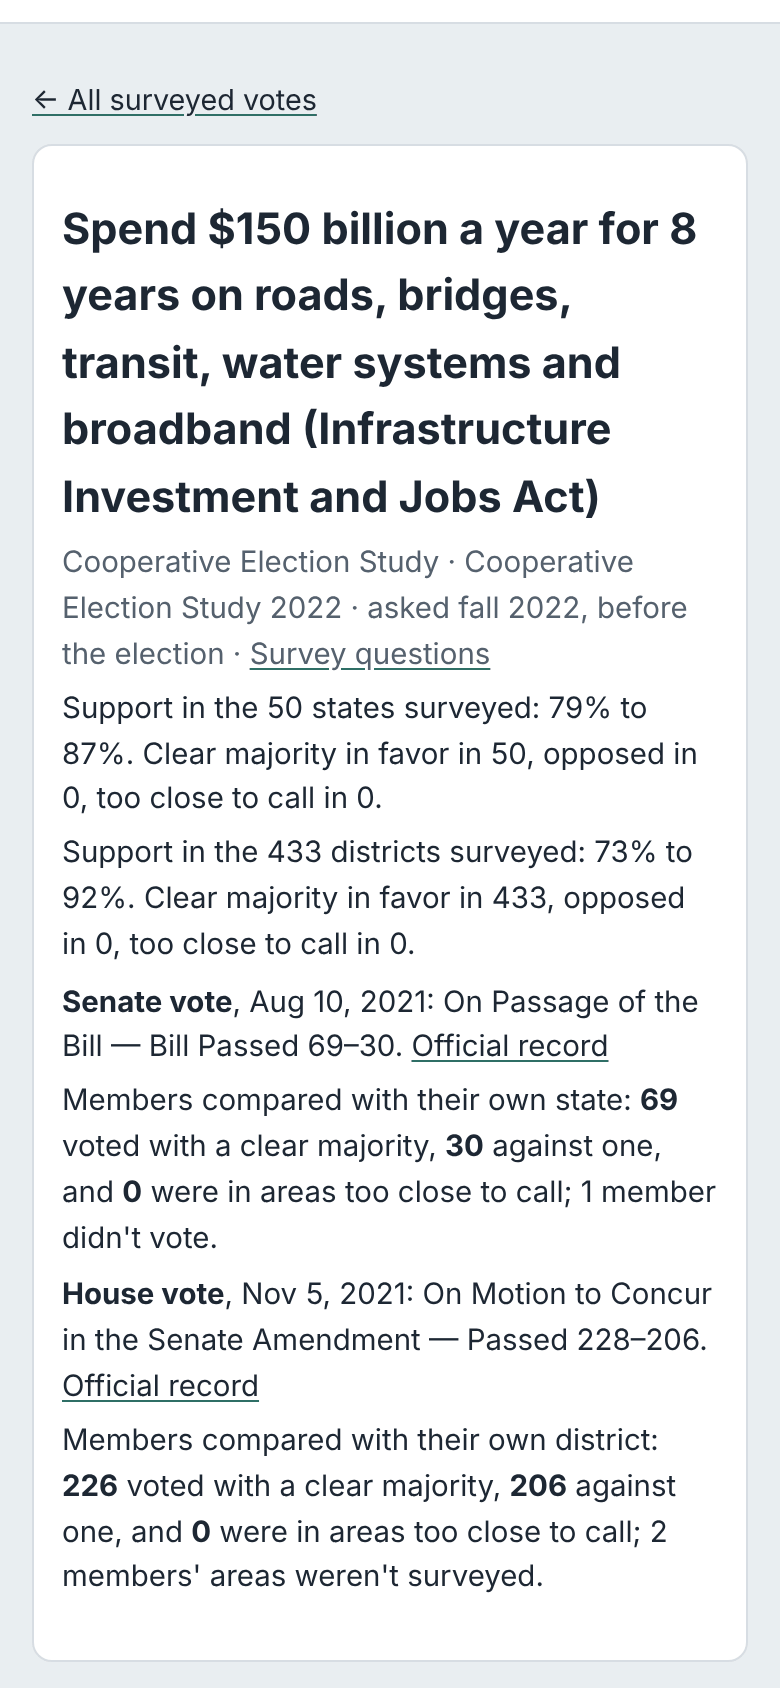
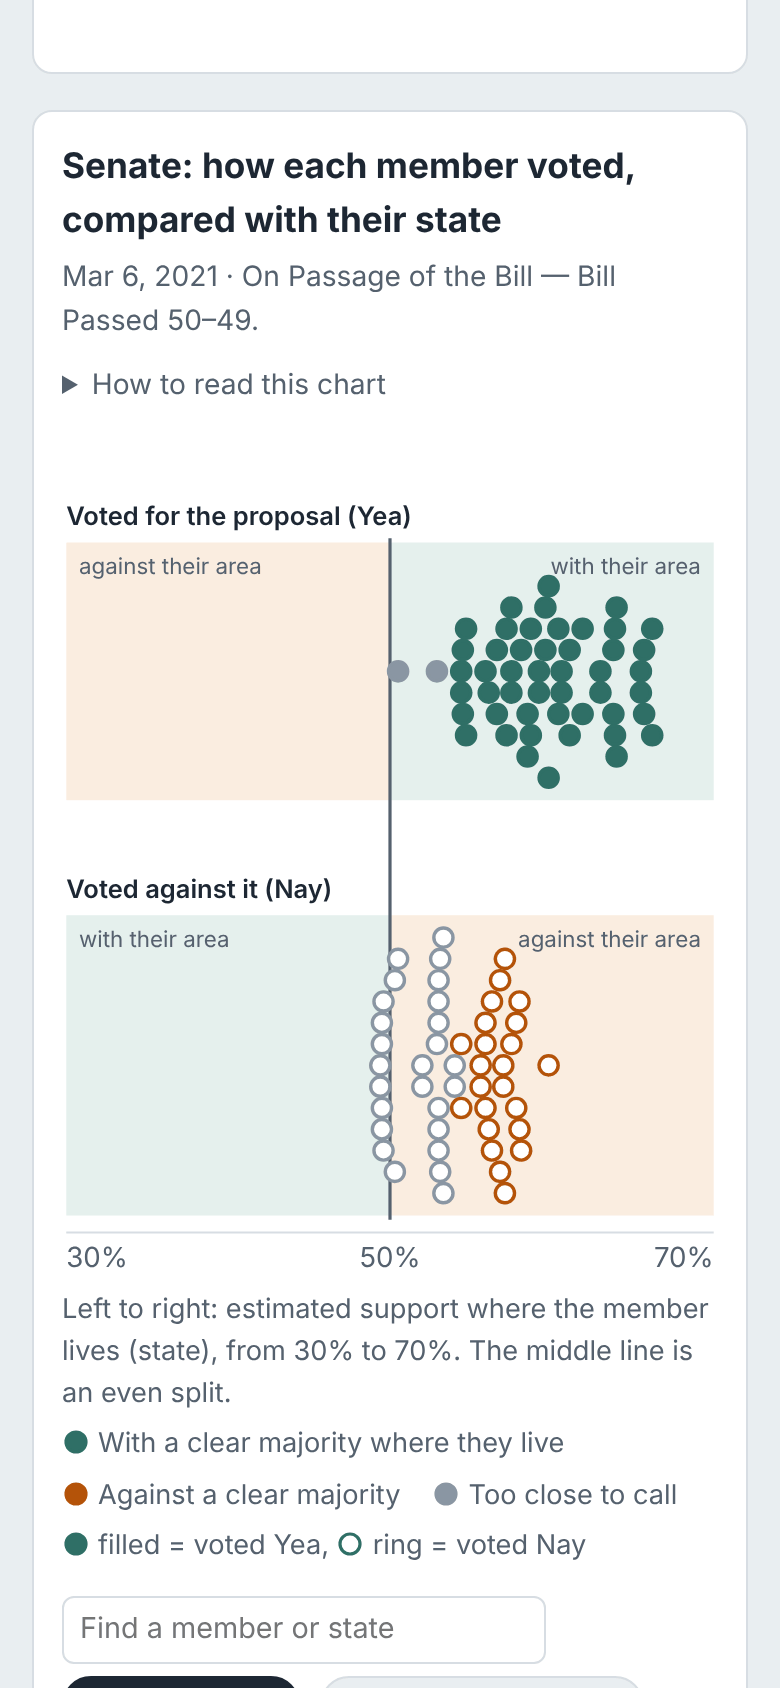
Features page: surveyed-votes example is now the American Rescue Plan Senate vote
Shows votes with a clear majority (48), against one (23) and too close to call (28).

Claude-Session: https://claude.ai/code/session_01Y9MjZ2ZaDEoxAbJRGUVhoU

diff --git a/site/pages/features.html b/site/pages/features.html
@@ -144,8 +144,8 @@ main_class: features-page
   </div>
   <figure class="shot">
     <a href="features/surveyed.png" title="Open full size"><picture><source media="(max-width: 760px)" srcset="features/surveyed-mobile.png" width="390" height="844">
-      <img src="features/surveyed.png" alt="A survey question with support by district and each member's vote" loading="lazy" width="1280" height="900"></picture></a>
-    <figcaption>One survey question: support where each member lives, and how they voted.</figcaption>
+      <img src="features/surveyed.png" alt="Chart of senators' votes on the American Rescue Plan against support in their state, showing votes with and against a clear majority" loading="lazy" width="1280" height="900"></picture></a>
+    <figcaption>The 2021 COVID relief law (American Rescue Plan): each senator's vote against support in their state. Some voted with a clear majority, some against it, and some states were too close to call.</figcaption>
   </figure>
 </article>
 
